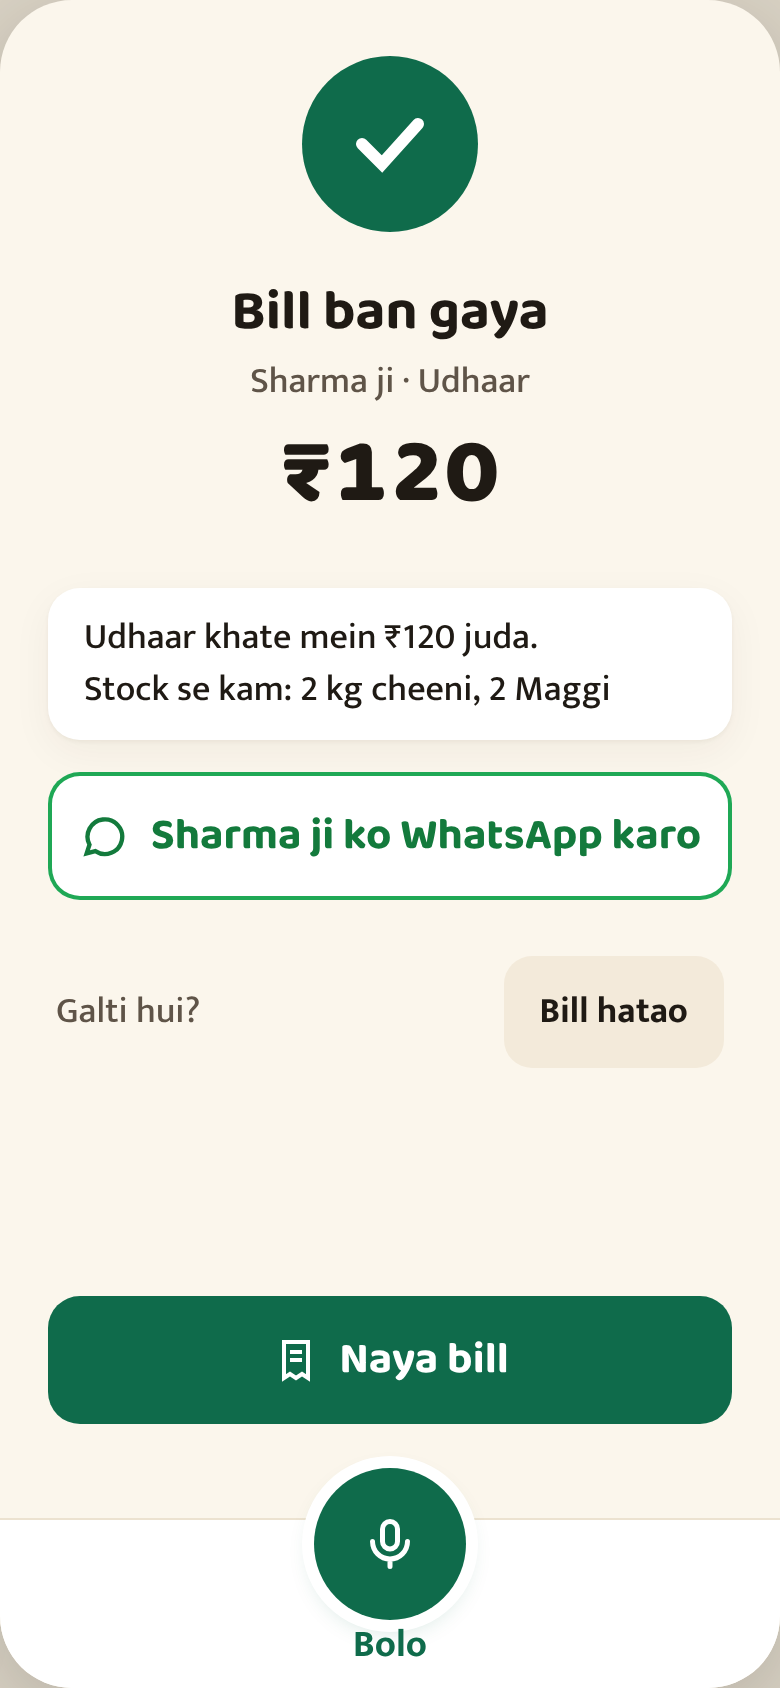
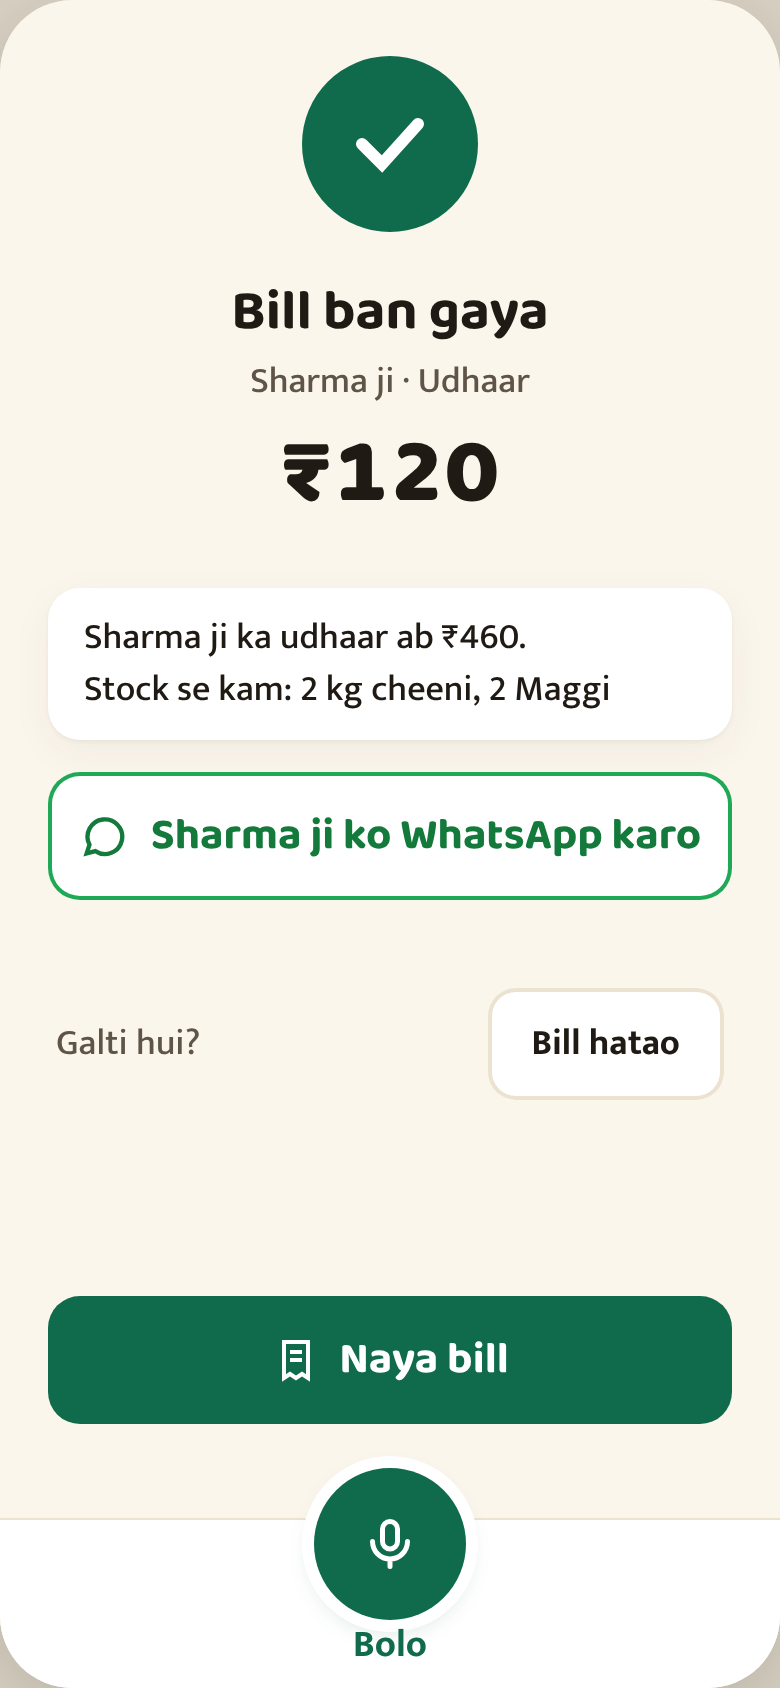
Design: owner-test round 5 fixes (shorter prompt, running udhaar balance, safer Bill hatao)
Claude-Session: https://claude.ai/code/session_01Dc9KGnrAUXnUwkJ5n5yUhd

Changed region(s): [[0.6154, 0.5853, 0.9231, 0.6469], [0.0923, 0.3697, 0.6769, 0.4005], [0.0615, 0.5853, 0.2769, 0.6469]]

diff --git a/design/preview.html b/design/preview.html
@@ -120,7 +120,7 @@
 <div class="band"></div><div class="dock"><div class="c" style="background:#C2410C"><svg width="30" height="30" style="color:#fff"><use href="#mic"/></svg></div><span style="color:#C2410C">Sun raha hai</span></div></div></div>
 <div class="wrap"><div class="cap">3 · Bill check karo (Review)</div><div class="ph"><div class="top"><div class="ghost"><svg width="22" height="22"><use href="#back"/></svg>Peeche</div><div></div></div>
 <div class="pad">
-<div class="who" style="margin-top:16px"><div class="av">S</div><div class="t"><div class="lab" style="line-height:20px">Bill kiska?</div><div class="h1">Sharma ji</div></div><div class="link">Badlo</div></div>
+<div class="who" style="margin-top:16px"><div class="av">S</div><div class="t"><div class="lab" style="line-height:20px">Bill kiska?</div><div class="h1">Sharma ji</div></div><div class="link" style="border:0;padding:0 6px;text-decoration:underline;text-underline-offset:4px">Badlo</div></div>
 <div class="items">
 <div class="it"><div><div class="nm">Cheeni</div><div class="pr">₹46/kg · ₹92</div></div><div class="step"><i>−</i><em>2 kg</em><i>+</i></div></div>
 <div class="it u"><div class="qrow" style="margin:0"><div><div class="nm">Maggi chhota</div><div class="pr">₹14 ek</div></div><div class="step"><i>−</i><em>1</em><i>+</i></div></div>
@@ -130,27 +130,27 @@
 <div class="pay"><div class="pb on">✓ Cash</div><div class="pb">UPI</div><div class="pb ud">Udhaar</div></div>
 </div>
 <div class="tot2"><span class="num">Kul</span><span class="big" style="font-size:38px">₹106</span></div>
-<div class="act warn">Pehle Maggi pe "Haan" dabao</div>
+<div class="act warn">↑ Pehle "Haan" dabao</div>
 <div class="band"></div><div class="dock"><div class="c" style="background:var(--ac)"><svg width="30" height="30" style="color:#fff"><use href="#mic"/></svg></div><span style="color:var(--ac)">Bolke badlo</span></div></div></div>
 <div class="wrap"><div class="cap">4 · Theek kiya, Udhaar chuna</div><div class="ph"><div class="top"><div class="ghost"><svg width="22" height="22"><use href="#back"/></svg>Peeche</div><div></div></div>
 <div class="pad">
-<div class="who" style="margin-top:16px"><div class="av">S</div><div class="t"><div class="lab" style="line-height:20px">Bill kiska?</div><div class="h1">Sharma ji</div></div><div class="link">Badlo</div></div>
+<div class="who" style="margin-top:16px"><div class="av">S</div><div class="t"><div class="lab" style="line-height:20px">Bill kiska?</div><div class="h1">Sharma ji</div></div><div class="link" style="border:0;padding:0 6px;text-decoration:underline;text-underline-offset:4px">Badlo</div></div>
 <div class="items">
 <div class="it"><div><div class="nm">Cheeni</div><div class="pr">₹46/kg · ₹92</div></div><div class="step"><i>−</i><em>2 kg</em><i>+</i></div></div>
 <div class="it"><div><div class="nm">Maggi chhota</div><div class="pr">₹14 ek · ₹28</div></div><div class="step"><i>−</i><em>2</em><i>+</i></div></div>
 </div>
 <div class="sec">Paise kaise mile?</div>
 <div class="pay"><div class="pb">Cash</div><div class="pb">UPI</div><div class="pb on" style="background:var(--ud)">✓ Udhaar</div></div>
-<div class="udnote">Sharma ji ke khate mein ₹120 judega</div>
+<div class="udnote">Sharma ji ka udhaar: ₹340 + ₹120 = ₹460</div>
 </div>
 <div class="act done">✓ Save karo · ₹120</div>
 <div class="band"></div><div class="dock"><div class="c" style="background:var(--ac)"><svg width="30" height="30" style="color:#fff"><use href="#mic"/></svg></div><span style="color:var(--ac)">Bolke badlo</span></div></div></div>
 <div class="wrap"><div class="cap">5 · Ho gaya (Saved)</div><div class="ph"><div class="pad">
 <div class="ok"><div class="okc"><svg width="48" height="48" style="color:#fff"><use href="#tick"/></svg></div>
 <div class="h1" style="margin-top:24px">Bill ban gaya</div><div class="lab" style="margin-top:4px">Sharma ji · Udhaar</div><div class="big" style="margin-top:8px">₹120</div></div>
-<div class="changed"><span>Udhaar khate mein ₹120 juda.<br>Stock se kam: 2 kg cheeni, 2 Maggi</span></div>
+<div class="changed"><span>Sharma ji ka udhaar ab ₹460.<br>Stock se kam: 2 kg cheeni, 2 Maggi</span></div>
 <div class="wa" style="color:#137A3C;box-shadow:inset 0 0 0 2px #1FA855"><svg width="26" height="26"><use href="#wa"/></svg>Sharma ji ko WhatsApp karo</div>
-<div class="undorow"><span class="lab">Galti hui?</span><div class="undo">Bill hatao</div></div>
+<div class="undorow" style="margin-top:44px"><span class="lab">Galti hui?</span><div class="undo" style="height:56px;padding:0 22px;background:#fff;box-shadow:inset 0 0 0 2px var(--line)">Bill hatao</div></div>
 </div>
 <div class="act done"><svg width="24" height="24"><use href="#bill"/></svg>Naya bill</div>
 <div class="band"></div><div class="dock"><div class="c" style="background:var(--ac)"><svg width="30" height="30" style="color:#fff"><use href="#mic"/></svg></div><span style="color:var(--ac)">Bolo</span></div></div></div>
